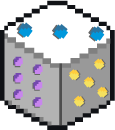
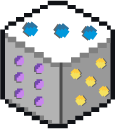
dadinho ajeitado

diff --git a/Dindin/src/view/ModoFacil.java b/Dindin/src/view/ModoFacil.java
@@ -1,10 +1,11 @@
 package view;
 
-/**Andr� Kaled Duarte - 30/09/2022
+/**Andre Kaled Duarte - 30/09/2022
  * Sarah Pinheiro Antunes - 29/09/2022
  * Graziela da Costa Ralph - 16/10/2022
  * Sarah Pinheiro Antunes - 17/10/2022
  * Graziela da Costa Ralph - 17/10/2022
+ * Graziela da Costa Ralph - 23/10/2022
  * 
  * Modo facil
  * essa classe deve ser um dos modos de jogo escolhido pelo usu�rio, as configur��es do jogo s�o
@@ -18,8 +19,6 @@ package view;
  * Lista de compras do Jogador? X
  * */
 import java.awt.Color;
-import java.awt.FlowLayout;
-import java.awt.Font;
 import java.awt.event.ActionEvent;
 import java.awt.event.ActionListener;
 
@@ -34,8 +33,7 @@ public class ModoFacil extends JPanel {
 
 	private JPanel areaDado, painelVez;
 	private JButton btRolar, btVoltar, btLista, btMenu;
-	private JLabel resultado1, resultado2, resultado3, resultado4, resultado5,
-			resultado6, areaVez, moeda, quantMoeda, personagem, nome;
+	private JLabel resultado, areaVez, moeda, quantMoeda, personagem, nome, lbDado;
 	private int rolaDado = 0, dadoAntigo = 0;
 	ImageIcon imgFundo = new ImageIcon("Imagens/area-jogador-da-vez.png"),
 			imgLista = new ImageIcon("Imagens/imagens/botao lista.png"),
@@ -43,13 +41,10 @@ public class ModoFacil extends JPanel {
 			imgPersonagem = new ImageIcon("Imagens/personagem.png"),
 			imgNome = new ImageIcon("Imagens/nome.png"),
 			imgMenu = new ImageIcon("Imagens/botao-menu.png"),
-			imgRolar = new ImageIcon("Imagens/botao-rola-dado.png"),
-			imgDado1 = new ImageIcon("Imagens/Dado-1.png"),
-			imgDado2 = new ImageIcon("Imagens/Dado-2.png"),
-			imgDado3 = new ImageIcon("Imagens/Dado-3.png"),
-			imgDado4 = new ImageIcon("Imagens/Dado-4.png"),
-			imgDado5 = new ImageIcon("Imagens/Dado-5.png"),
-			imgDado6 = new ImageIcon("Imagens/Dad-6.png");
+			imgVoltar = new ImageIcon ("Imagens/botao voltar.png"),
+			imgRolar = new ImageIcon("Imagens/botao-rola-dado.png");
+	ImageIcon DadoIcon;
+	private String imgDado[] = {"1", "2", "3", "4", "5", "6"};
 
 	public ModoFacil() {
 		setLayout(null);
@@ -57,15 +52,13 @@ public class ModoFacil extends JPanel {
 		setName("MODO FACIL");
 		areaDado = new JPanel();
 		btRolar = new JButton(imgRolar);
-		btVoltar = new JButton("VOLTAR");
-		resultado1 = new JLabel(imgDado1);
-		resultado2 = new JLabel(imgDado2);
-		resultado3 = new JLabel(imgDado3);
-		resultado4 = new JLabel(imgDado4);
-		resultado5 = new JLabel(imgDado5);
-		resultado6 = new JLabel(imgDado6);
+		btVoltar = new JButton(imgVoltar);
+		resultado = new JLabel(imgDado[0]);
 		btMenu = new JButton(imgMenu);
 
+		DadoIcon= new ImageIcon(imgDado[0]+".png"); //acessa as imagens
+        lbDado = new JLabel(DadoIcon);
+		
 		configuraDado();
 		configuraBtVoltar();
 		configuraVez();
@@ -117,195 +110,37 @@ public class ModoFacil extends JPanel {
 
 	// configurando area do Dado
 	private void configuraDado() {
-
+		
 		// config para o painel
 		areaDado.setLayout(null);
 		areaDado.setOpaque(false);
 
 		// adicionando os componentes
-		areaDado.add(resultado1);
-		areaDado.add(resultado2);
-		areaDado.add(resultado3);
-		areaDado.add(resultado4);
-		areaDado.add(resultado5);
-		areaDado.add(resultado6);
 		areaDado.add(btRolar);
+		areaDado.add(lbDado);
 		add(areaDado);
 
 		// posicionamento e tamanho
 		btRolar.setBounds(30, 200, 150, 150);
-		resultado1.setBounds(-100, -70, 400, 500);
-		resultado2.setBounds(-100, -70, 400, 500);
-		resultado3.setBounds(-100, -70, 400, 500);
-		resultado4.setBounds(-100, -70, 400, 500);
-		resultado5.setBounds(-100, -70, 400, 500);
-		resultado6.setBounds(-100, -70, 400, 500);
+		lbDado.setBounds(-100, -70, 400, 500);
 		areaDado.setBounds(1000, 350, 200, 400);
 
-		// bagulhin do setvisible
-		resultado1.setVisible(true);
-		resultado2.setVisible(false);
-		resultado3.setVisible(false);
-		resultado4.setVisible(false);
-		resultado5.setVisible(false);
-		resultado6.setVisible(false);
 
-		// configuraçao do botao rolar dado
+
+		// configuraçao da area do botao rolar dado
 		btRolar.setContentAreaFilled(false);
 		btRolar.setBorderPainted(false);
 
-		/*
-		 * resultado.setFont(new Font("Arial", 1, 19));
-		 * resultado.setForeground(Color.ORANGE); btRolar.setFont(new
-		 * Font("Arial", 1, 14));
-		 */
-
+	
 		btRolar.addActionListener(new ActionListener() {
 
 			@Override
 			public void actionPerformed(ActionEvent arg0) {
-				rolaDado = Dado.rolar();
-				switch (rolaDado) {
-				case 1:
-					switch (dadoAntigo) {
-					case 1:
-						break;
-					case 2:
-						resultado2.setVisible(false);
-						break;
-					case 3:
-						resultado3.setVisible(false);
-						break;
-					case 4:
-						resultado4.setVisible(false);
-						break;
-					case 5:
-						resultado5.setVisible(false);
-						break;
-					case 6:
-						resultado6.setVisible(false);
-						break;
-					}
-					resultado1.setVisible(true);
-					dadoAntigo = rolaDado;
-					break;
-				case 2:
-					switch (dadoAntigo) {
-					case 1:
-						resultado1.setVisible(false);
-						break;
-					case 2:
-						break;
-					case 3:
-						resultado3.setVisible(false);
-						break;
-					case 4:
-						resultado4.setVisible(false);
-						break;
-					case 5:
-						resultado5.setVisible(false);
-						break;
-					case 6:
-						resultado6.setVisible(false);
-						break;
-					}
-					resultado2.setVisible(true);
-					dadoAntigo = rolaDado;
-					break;
-				case 3:
-					switch (dadoAntigo) {
-					case 1:
-						resultado1.setVisible(false);
-						break;
-					case 2:
-						resultado2.setVisible(false);
-						break;
-					case 3:
-						break;
-					case 4:
-						resultado4.setVisible(false);
-						break;
-					case 5:
-						resultado5.setVisible(false);
-						break;
-					case 6:
-						resultado6.setVisible(false);
-						break;
-					}
-					resultado3.setVisible(true);
-					dadoAntigo = rolaDado;
-					break;
-				case 4:
-					switch (dadoAntigo) {
-					case 1:
-						resultado1.setVisible(false);
-						break;
-					case 2:
-						resultado2.setVisible(false);
-						break;
-					case 3:
-						resultado3.setVisible(false);
-						break;
-					case 4:
-						break;
-					case 5:
-						resultado5.setVisible(false);
-						break;
-					case 6:
-						resultado6.setVisible(false);
-						break;
-					}
-					resultado4.setVisible(true);
-					dadoAntigo = rolaDado;
-					break;
-				case 5:
-					switch (dadoAntigo) {
-					case 1:
-						resultado1.setVisible(false);
-						break;
-					case 2:
-						resultado2.setVisible(false);
-						break;
-					case 3:
-						resultado3.setVisible(false);
-						break;
-					case 4:
-						resultado4.setVisible(false);
-						break;
-					case 5:
-						break;
-					case 6:
-						resultado6.setVisible(false);
-						break;
-					}
-					resultado5.setVisible(true);
-					dadoAntigo = rolaDado;
-					break;
-				case 6:
-					switch (dadoAntigo) {
-					case 1:
-						resultado1.setVisible(false);
-						break;
-					case 2:
-						resultado2.setVisible(false);
-						break;
-					case 3:
-						resultado3.setVisible(false);
-						break;
-					case 4:
-						resultado4.setVisible(false);
-						break;
-					case 5:
-						resultado5.setVisible(false);
-						break;
-					case 6:
-						break;
-					}
-					resultado6.setVisible(true);
-					dadoAntigo = rolaDado;
-					break;
-				}
-
+				int i = Dado.rolar();
+		
+				DadoIcon = new ImageIcon("Imagens/Dado-"+imgDado[i]+".png"); // acessa o nome da imagem
+	            lbDado.setIcon(DadoIcon);
+				
 			}
 
 		});
@@ -313,7 +148,9 @@ public class ModoFacil extends JPanel {
 
 	// configurando botao de voltar
 	private void configuraBtVoltar() {
-		// btVoltar.setBounds(10, 10, 100, 20);
+		btVoltar.setBounds(10, 10, 70, 70);
+		btVoltar.setContentAreaFilled(false);
+		btVoltar.setBorderPainted(false);
 		add(btVoltar);
 		btVoltar.addActionListener(new ActionListener() {
 
